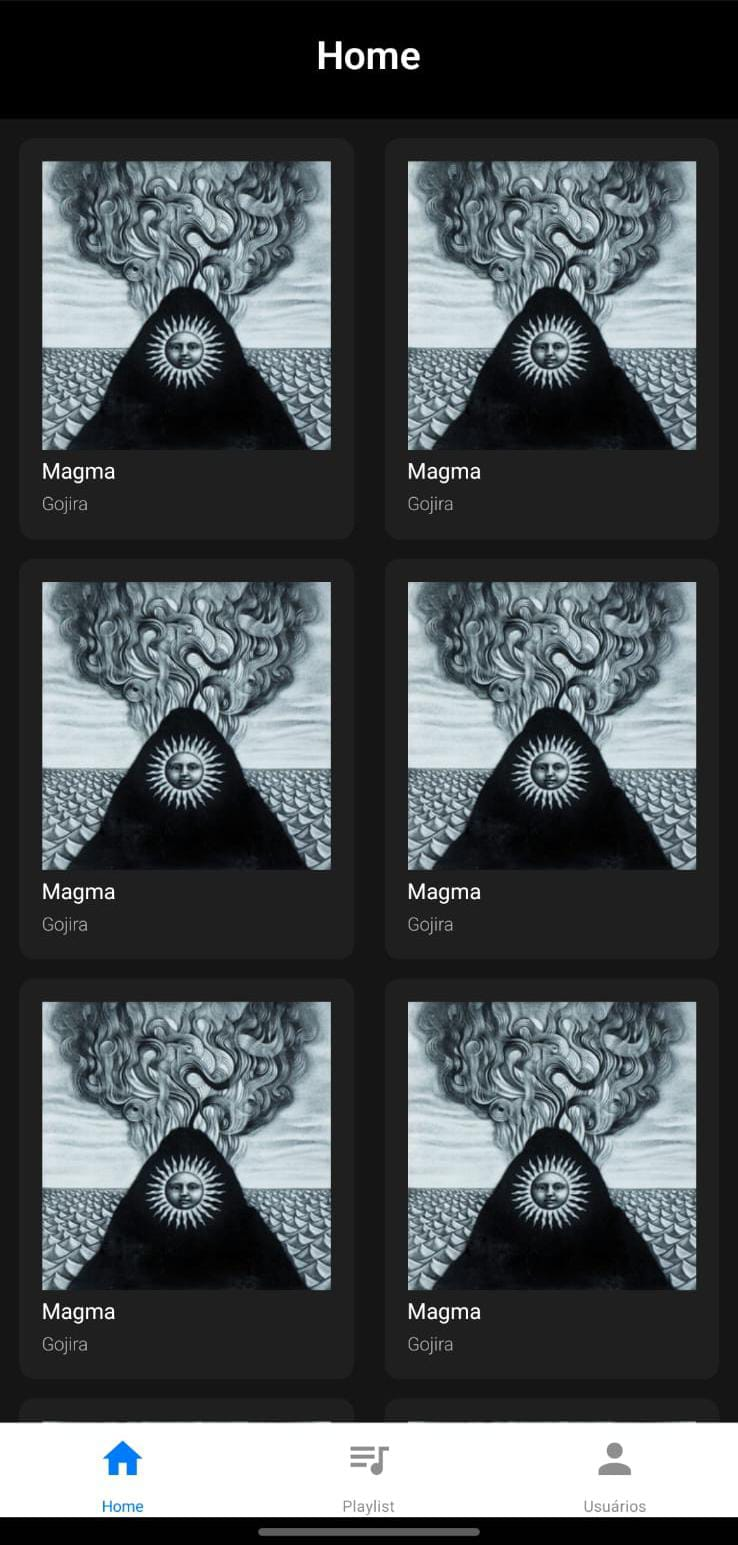
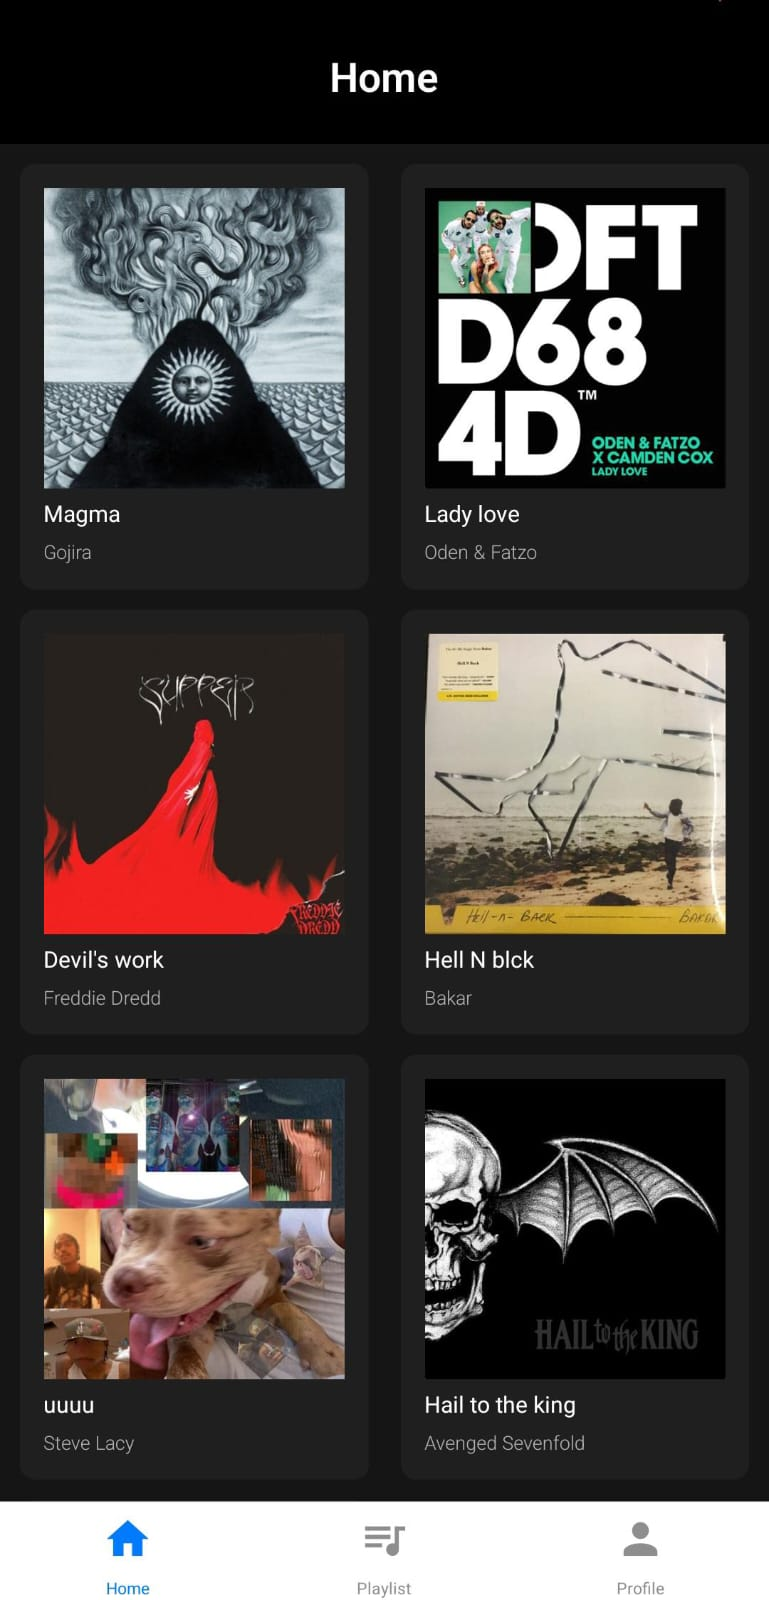
# Adiciona preview das telas

diff --git a/README.md b/README.md
@@ -1,4 +1,10 @@
 # App com barra de navegação na parte inferior
 
-### Preview
-![imagem preview](./assets/preview.jpeg)
+### Home
+![tela Home](./assets/previewHome.jpeg)
+
+### Playlist
+![tela Playlis](./assets/previewPlaylist.jpeg)
+
+### Profile
+![tela Playlis](./assets/previewProfile.jpeg.jpeg)
